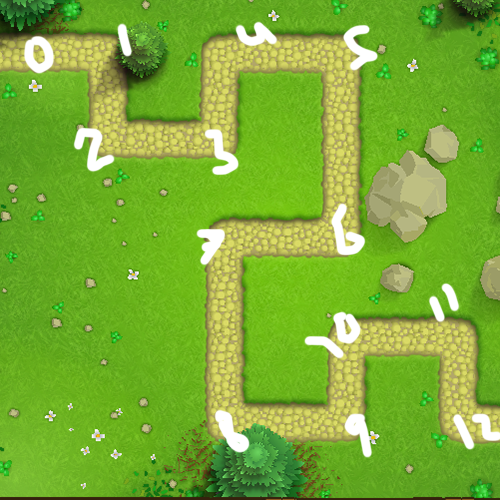
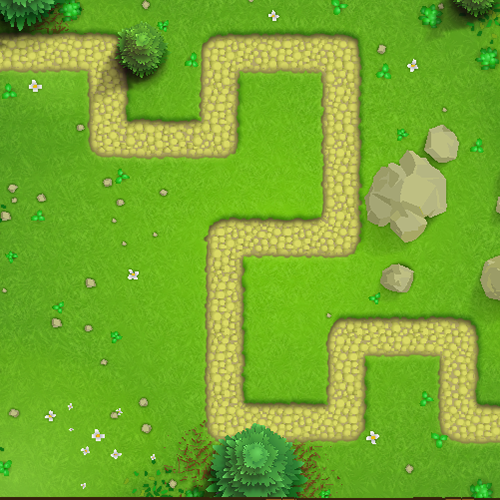
bb

diff --git a/src/model/Map2_Path.java b/src/model/Map2_Path.java
@@ -1,5 +1,126 @@
 package model;
 
-public class Map2_Path {
+import java.awt.Point;
+
+public class Map2_Path extends Path{
+
+	public Map2_Path() {
+		super();
+	}
+	@Override
+	public Point checkTurns(Point p, Enemy e) {
+		int x=0; int y=0;
+		
+		
+		switch (e.getNumTurns()) {
+		case 0:
+				setL(false); setR(true);
+				setU(false); setD(false);
+				if (p.x>105)
+					e.updateNumTurns();
+			break;
+		case 1:
+			setL(false); setR(false);
+			setU(true); setD(false);
+			if (p.y<126)
+				e.updateNumTurns();
+			break;
+		case 2:
+			setL(false); setR(true);
+			setU(false); setD(false);
+			if (p.x>213)
+				e.updateNumTurns();
+			break;
+		case 3:
+			setL(false); setR(false);
+			setU(false); setD(true);
+			if (p.y<440)
+				e.updateNumTurns();
+			break;
+		case 4:
+			setL(false); setR(true);
+			setU(false); setD(false);
+			if (p.x>334)
+				e.updateNumTurns();
+			break;
+		case 5:
+			setL(false); setR(false);
+			setU(true); setD(false);
+			if (p.y>228)
+				e.updateNumTurns();
+			break;
+		case 6:
+			setL(true); setR(false);
+			setU(false); setD(false);
+			if (p.x<230)
+				e.updateNumTurns();
+			break;
+		case 7:
+			setL(false); setR(false);
+			setU(false); setD(true);
+			if (p.y>410)
+				e.updateNumTurns();
+			break;
+		case 8:
+			setL(false); setR(true);
+			setU(false); setD(false);
+			if (p.x>332)
+				e.updateNumTurns();
+			break;
+		case 9:
+			setL(false); setR(false);
+			setU(true); setD(false);
+			if (p.y<342)
+				e.updateNumTurns();
+			break;
+		case 10:
+			setL(false); setR(true);
+			setU(false); setD(false);
+			if (p.x>448)
+				e.updateNumTurns();
+			break;
+		case 11:
+			setL(false); setR(false);
+			setU(false); setD(true);
+			if (p.y>416)
+				e.updateNumTurns();
+			break;
+		case 12:
+			setL(false); setR(true);
+			setU(false); setD(false);
+			if (p.y>500)
+				e.updateNumTurns();
+			break;
+			
+			default:
+				setL(false); setR(false);
+				setU(false); setD(false);
+				break;
+		}
+		
+		
+		
+		
+		
+		
+		
+		
+		if (getL()) {
+			x=-1;
+		}
+		else if (getR()){
+			x=1;
+		}
+		
+		if (getD()) {
+			y=1;
+		}
+		else if (getU()){
+			y=-1;
+		}
+
+		
+		return new Point(x,y);
+	}
 
 }

diff --git a/src/model/Map1_Path.java b/src/model/Map1_Path.java
@@ -46,43 +46,43 @@ public class Map1_Path extends Path{
 		case 5:
 			setL(false); setR(false);
 			setU(false); setD(true);
-			if (p.y>130)
+			if (p.y>228)
 				e.updateNumTurns();
 			break;
 		case 6:
 			setL(true); setR(false);
 			setU(false); setD(false);
-			if (p.x<130)
+			if (p.x<230)
 				e.updateNumTurns();
 			break;
 		case 7:
 			setL(false); setR(false);
 			setU(false); setD(true);
-			if (p.y>130)
+			if (p.y>410)
 				e.updateNumTurns();
 			break;
 		case 8:
 			setL(false); setR(true);
 			setU(false); setD(false);
-			if (p.x>130)
+			if (p.x>332)
 				e.updateNumTurns();
 			break;
 		case 9:
 			setL(false); setR(false);
 			setU(true); setD(false);
-			if (p.y<130)
+			if (p.y<342)
 				e.updateNumTurns();
 			break;
 		case 10:
 			setL(false); setR(true);
 			setU(false); setD(false);
-			if (p.x>130)
+			if (p.x>448)
 				e.updateNumTurns();
 			break;
 		case 11:
 			setL(false); setR(false);
 			setU(false); setD(true);
-			if (p.y>130)
+			if (p.y>416)
 				e.updateNumTurns();
 			break;
 		case 12:
